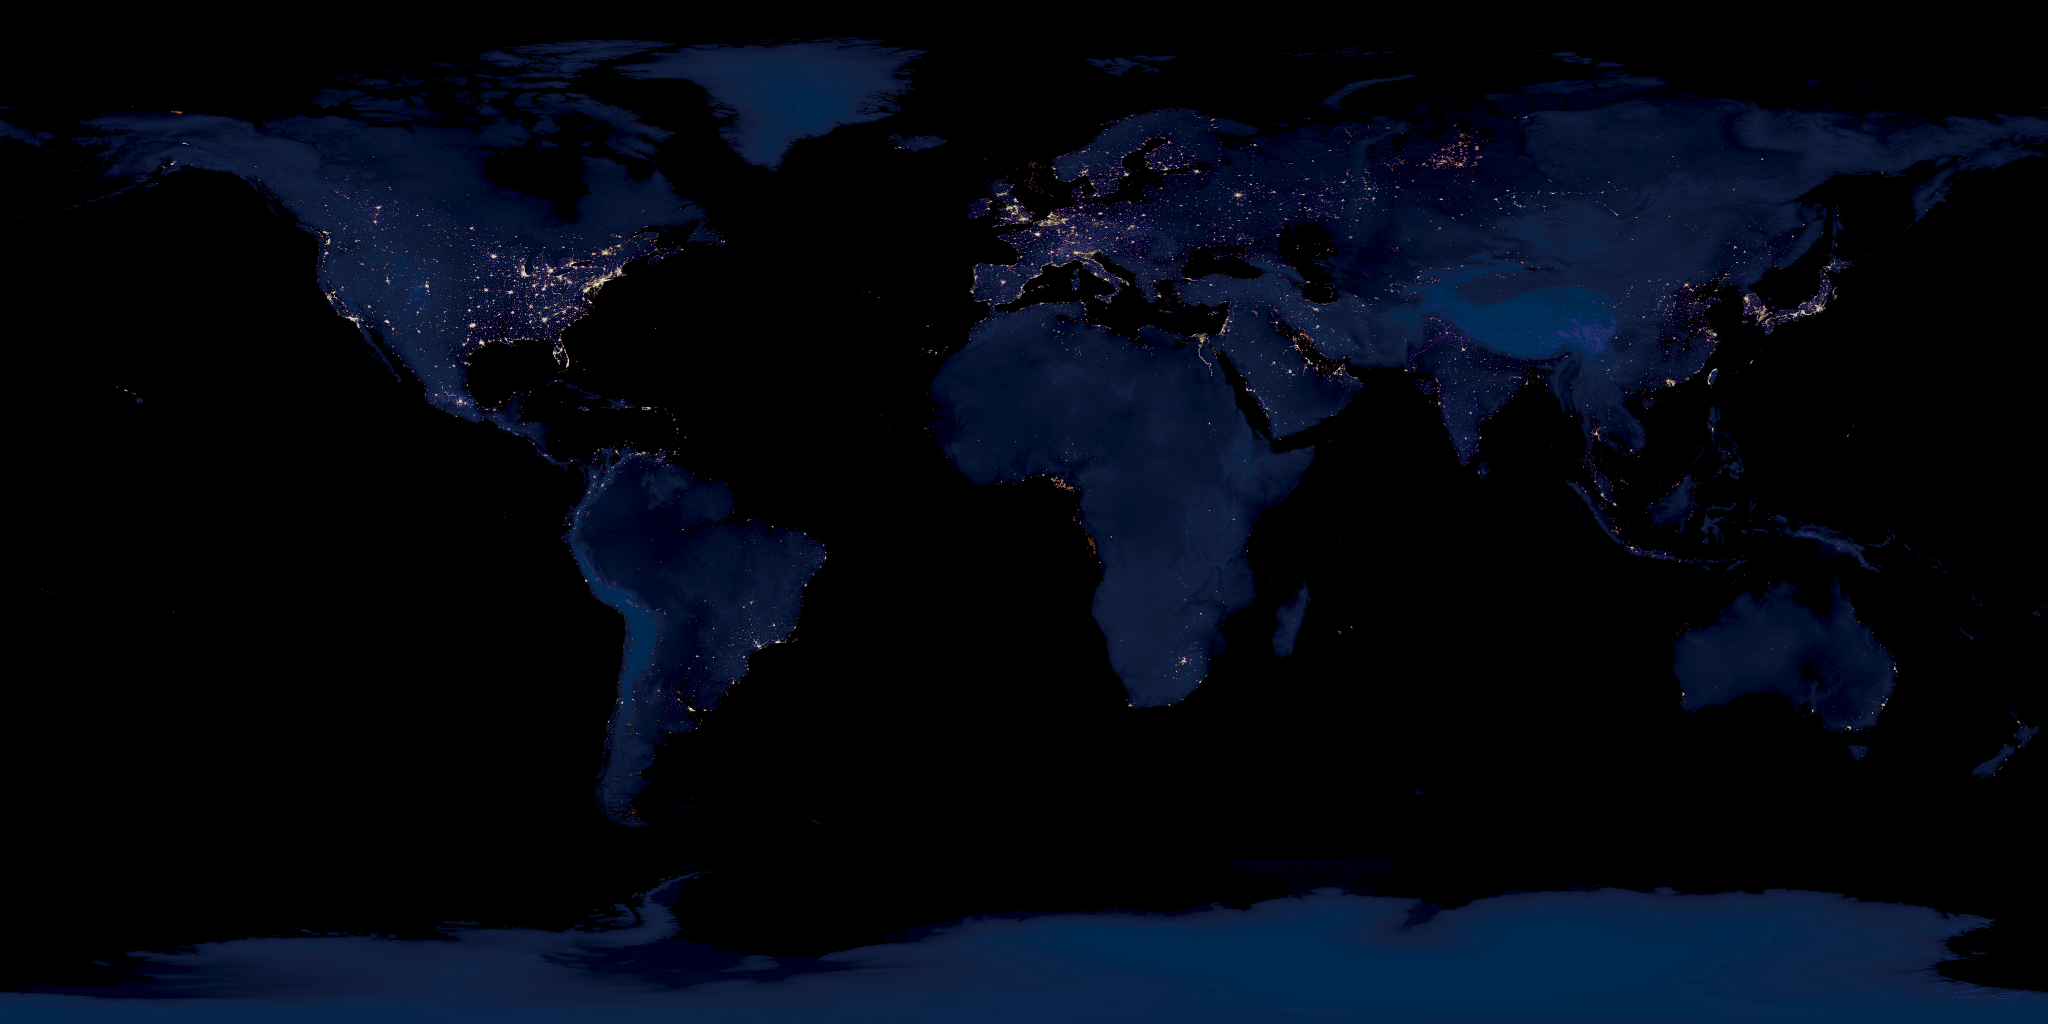
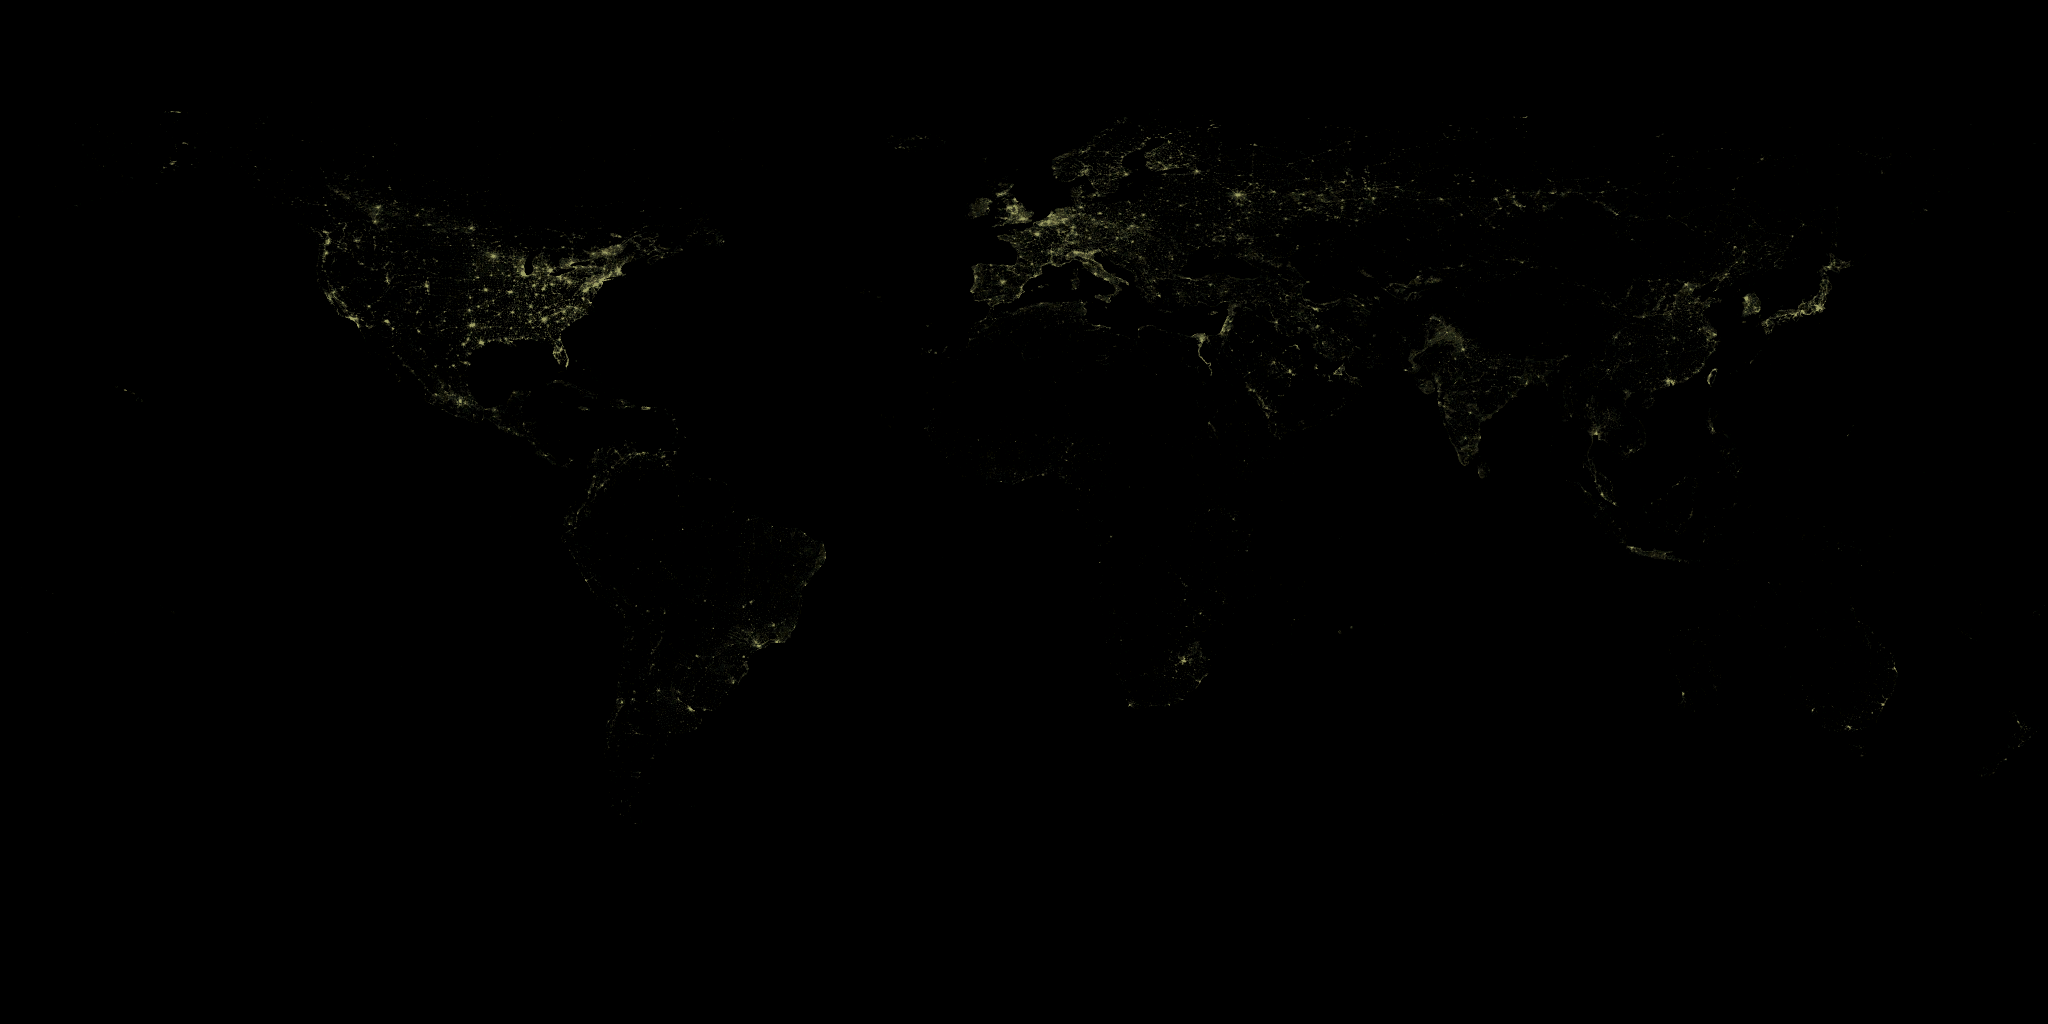
Changed the textures for day and night, and some cleanup.
Found a better nightmap with only lights (thus allowing me to paste it directly instead of filtering for the lights).
Now using a real colours day map, the result is much nicer !

By the way, I said a bit of crap in the last commit about float timezone, I just forgot how I did my calculations :-).
But still there are some places that have a not round timezone (such as French Polynesia : GMT-9h30), so the timezone remains a float !

diff --git a/earth.c b/earth.c
@@ -67,17 +67,10 @@ earthPaintInside (CompScreen              *s,
     glTranslatef (cs->outputXOffset, -cs->outputYOffset, 0.0f);
     glScalef (cs->outputXScale, cs->outputYScale, 1.0f);
 
-    Bool enabledCull = FALSE;
+    /* Pushing all the attribs I'm about to eventually modify*/
+    glPushAttrib (GL_COLOR_BUFFER_BIT | GL_TEXTURE_BIT | GL_DEPTH_BUFFER_BIT | GL_LIGHTING_BIT |GL_ENABLE_BIT);
 
-    glPushAttrib (GL_COLOR_BUFFER_BIT | GL_TEXTURE_BIT);
-
-    glDisable (GL_BLEND);
-
-    if (!glIsEnabled (GL_CULL_FACE) )
-    {
-	enabledCull = TRUE;
-	glEnable (GL_CULL_FACE);
-    }
+    glEnable (GL_CULL_FACE);
 
     glEnable (GL_DEPTH_TEST); 
 
@@ -103,6 +96,9 @@ earthPaintInside (CompScreen              *s,
 	glRotatef (-es->dec, 1, 0, 0);
 
 	glLightfv (GL_LIGHT1, GL_POSITION, es->sun.position);
+	glLightfv (GL_LIGHT1, GL_AMBIENT, es->sun.ambient);
+	glLightfv (GL_LIGHT1, GL_DIFFUSE, es->sun.diffuse);
+	glLightfv (GL_LIGHT1, GL_SPECULAR, es->sun.specular);
 	
     glPopMatrix ();
     
@@ -141,19 +137,9 @@ earthPaintInside (CompScreen              *s,
     
     
     glDisable (GL_LIGHT1);
-    glLightModeli (GL_LIGHT_MODEL_LOCAL_VIEWER, GL_FALSE);
-    glEnable (GL_COLOR_MATERIAL);
 
-    /* Back to standard openGL settings */
+    /* Restore previous state */
     glPopMatrix ();
-    
-    if (!s->lighting)
-	glDisable (GL_LIGHTING);
-
-    glDisable (GL_DEPTH_TEST);
-
-    if (enabledCull)
-	glDisable (GL_CULL_FACE);
 
     glPopAttrib();
 	glPopMatrix();
@@ -314,7 +300,7 @@ earthInitScreen (CompPlugin *p,
 	es->sun.specular[i] = 1;
 	es->sun.position[i] = 0;
 	
-	es->earth.ambient[i] = 0.2;
+	es->earth.ambient[i] = 0.1;
 	es->earth.diffuse[i] = 1;
 	es->earth.specular[i] = 0;
     }
@@ -329,9 +315,6 @@ earthInitScreen (CompPlugin *p,
 	es->earth.specular[3] = 1;
     }
     
-    glLightfv (GL_LIGHT1, GL_AMBIENT, es->sun.ambient);
-    glLightfv (GL_LIGHT1, GL_DIFFUSE, es->sun.diffuse);
-    glLightfv (GL_LIGHT1, GL_SPECULAR, es->sun.specular);
     
     /* Display list creation */
     es->spherelist = glGenLists (1);
